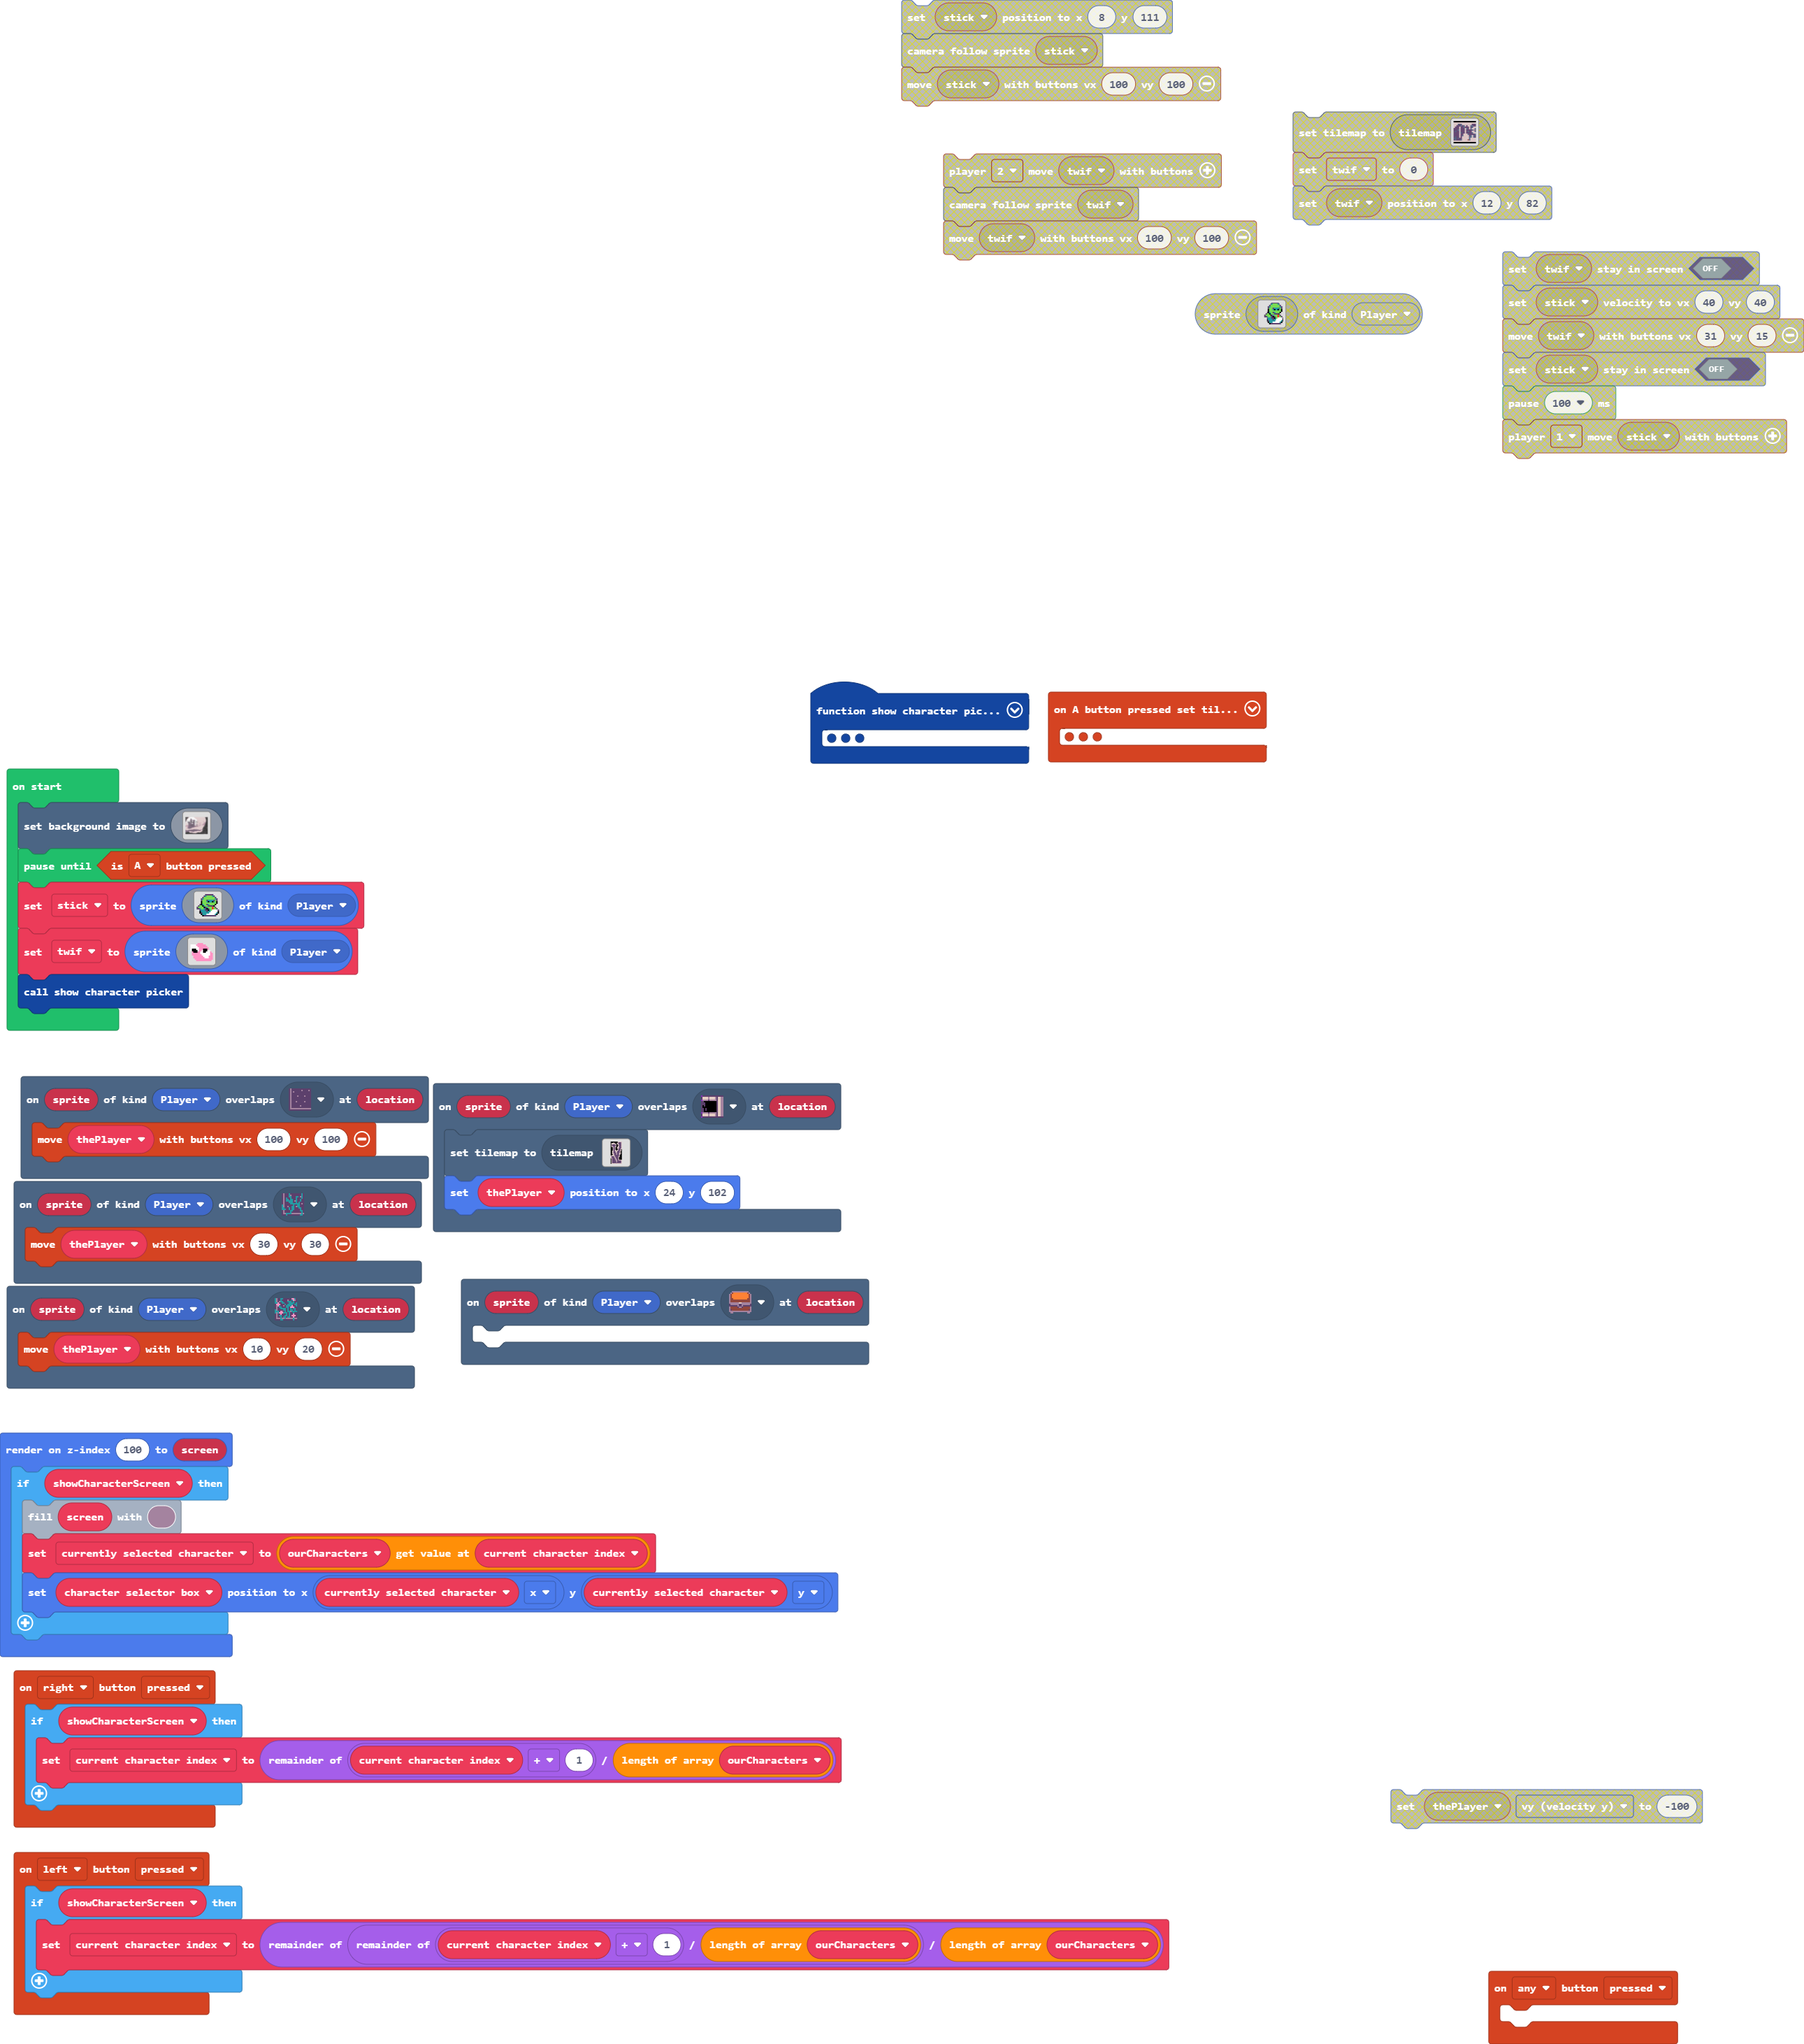
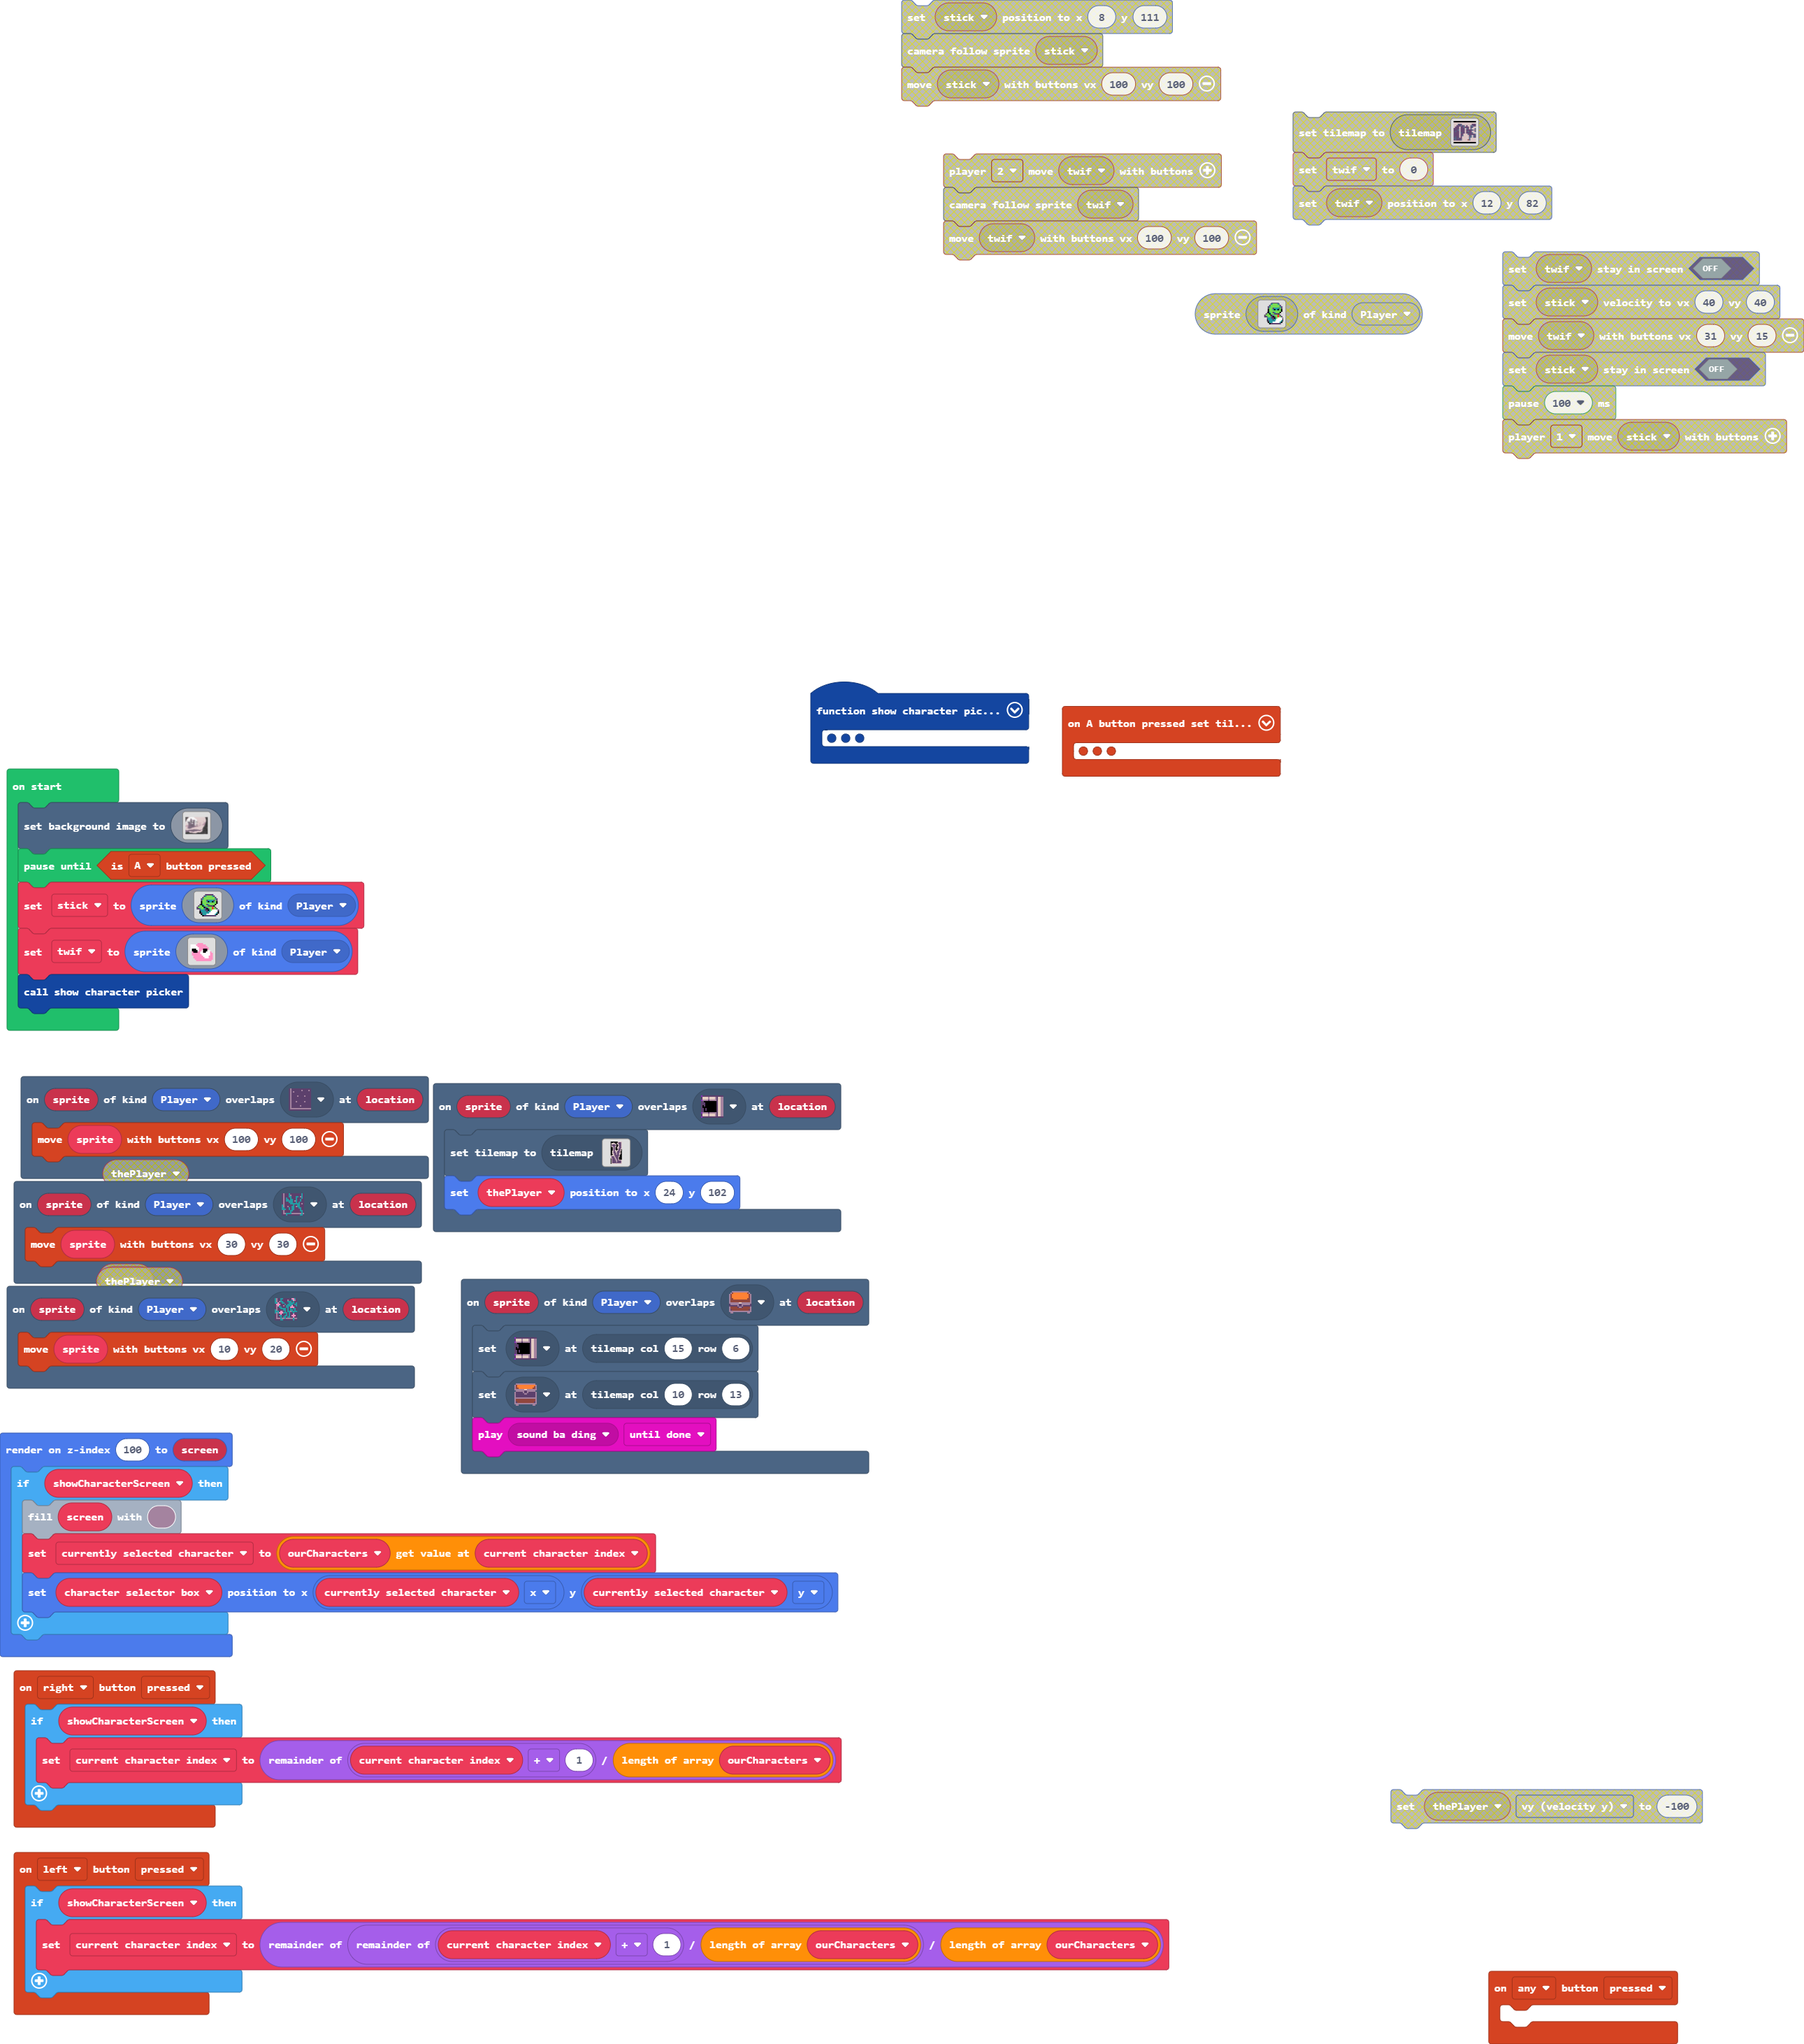
Open door with chest !

diff --git a/main.ts b/main.ts
@@ -3,7 +3,7 @@ namespace SpriteKind {
     export const Backround = SpriteKind.create()
 }
 scene.onOverlapTile(SpriteKind.Player, assets.tile`myTile0`, function (sprite, location) {
-    controller.moveSprite(thePlayer, 10, 20)
+    controller.moveSprite(sprite, 10, 20)
 })
 function show_character_picker () {
     scene.centerCameraAt(80, 60)
@@ -63,13 +63,19 @@ function show_character_picker () {
         c..................................c
         c..................................c
         cccccccccccccccccccccccccccccccccccc
-        `, SpriteKind.Player)
+        `, SpriteKind.Backround)
     character_selector_box.z = 101
 }
 controller.A.onEvent(ControllerButtonEvent.Pressed, function () {
     tiles.setCurrentTilemap(tilemap`level1`)
     if (showCharacterScreen) {
-        thePlayer = sprites.readDataSprite(currently_selected_character, "player")
+        if (current_character_index == 0) {
+            thePlayer = stick
+            sprites.destroy(twif)
+        } else {
+            thePlayer = twif
+            sprites.destroy(stick)
+        }
         tiles.placeOnRandomTile(thePlayer, sprites.dungeon.darkGroundNorthEast1)
         scene.cameraFollowSprite(thePlayer)
         for (let value of sprites.allOfKind(SpriteKind.SelectableCharacter)) {
@@ -83,12 +89,10 @@ controller.A.onEvent(ControllerButtonEvent.Pressed, function () {
         }
         controller.moveSprite(thePlayer, 100, 0)
         showCharacterScreen = false
-    } else {
-    	
     }
 })
 scene.onOverlapTile(SpriteKind.Player, assets.tile`myTile`, function (sprite, location) {
-    controller.moveSprite(thePlayer, 30, 30)
+    controller.moveSprite(sprite, 30, 30)
 })
 controller.anyButton.onEvent(ControllerButtonEvent.Pressed, function () {
 	
@@ -99,7 +103,9 @@ controller.left.onEvent(ControllerButtonEvent.Pressed, function () {
     }
 })
 scene.onOverlapTile(SpriteKind.Player, sprites.dungeon.chestClosed, function (sprite, location) {
-	
+    tiles.setTileAt(tiles.getTileLocation(15, 6), assets.tile`myTile2`)
+    tiles.setTileAt(tiles.getTileLocation(10, 13), assets.tile`myTile3`)
+    music.play(music.melodyPlayable(music.baDing), music.PlaybackMode.UntilDone)
 })
 controller.right.onEvent(ControllerButtonEvent.Pressed, function () {
     if (showCharacterScreen) {
@@ -118,9 +124,10 @@ spriteutils.createRenderable(100, function (screen2) {
     }
 })
 scene.onOverlapTile(SpriteKind.Player, sprites.dungeon.darkGroundSouthWest0, function (sprite, location) {
-    controller.moveSprite(thePlayer, 100, 100)
+    controller.moveSprite(sprite, 100, 100)
 })
 let currently_selected_character: Sprite = null
+let thePlayer: Sprite = null
 let character_selector_box: Sprite = null
 let current_character_index = 0
 let ourCharacters: Sprite[] = []
@@ -128,7 +135,6 @@ let Big_twif: Sprite = null
 let textSprite: TextSprite = null
 let Huge_stick: Sprite = null
 let showCharacterScreen = false
-let thePlayer: Sprite = null
 let twif: Sprite = null
 let stick: Sprite = null
 scene.setBackgroundImage(img`

diff --git a/tilemap.g.ts b/tilemap.g.ts
@@ -10,6 +10,8 @@ namespace myTiles {
     export const tile3 = image.ofBuffer(hex``);
     //% fixedInstance jres blockIdentity=images._tile
     export const tile4 = image.ofBuffer(hex``);
+    //% fixedInstance jres blockIdentity=images._tile
+    export const tile5 = image.ofBuffer(hex``);
 
     helpers._registerFactory("tilemap", function(name: string) {
         switch(helpers.stringTrim(name)) {
@@ -158,6 +160,8 @@ namespace myTiles {
             case "tile3":return tile3;
             case "myTile2":
             case "tile4":return tile4;
+            case "myTile3":
+            case "tile5":return tile5;
         }
         return null;
     })
